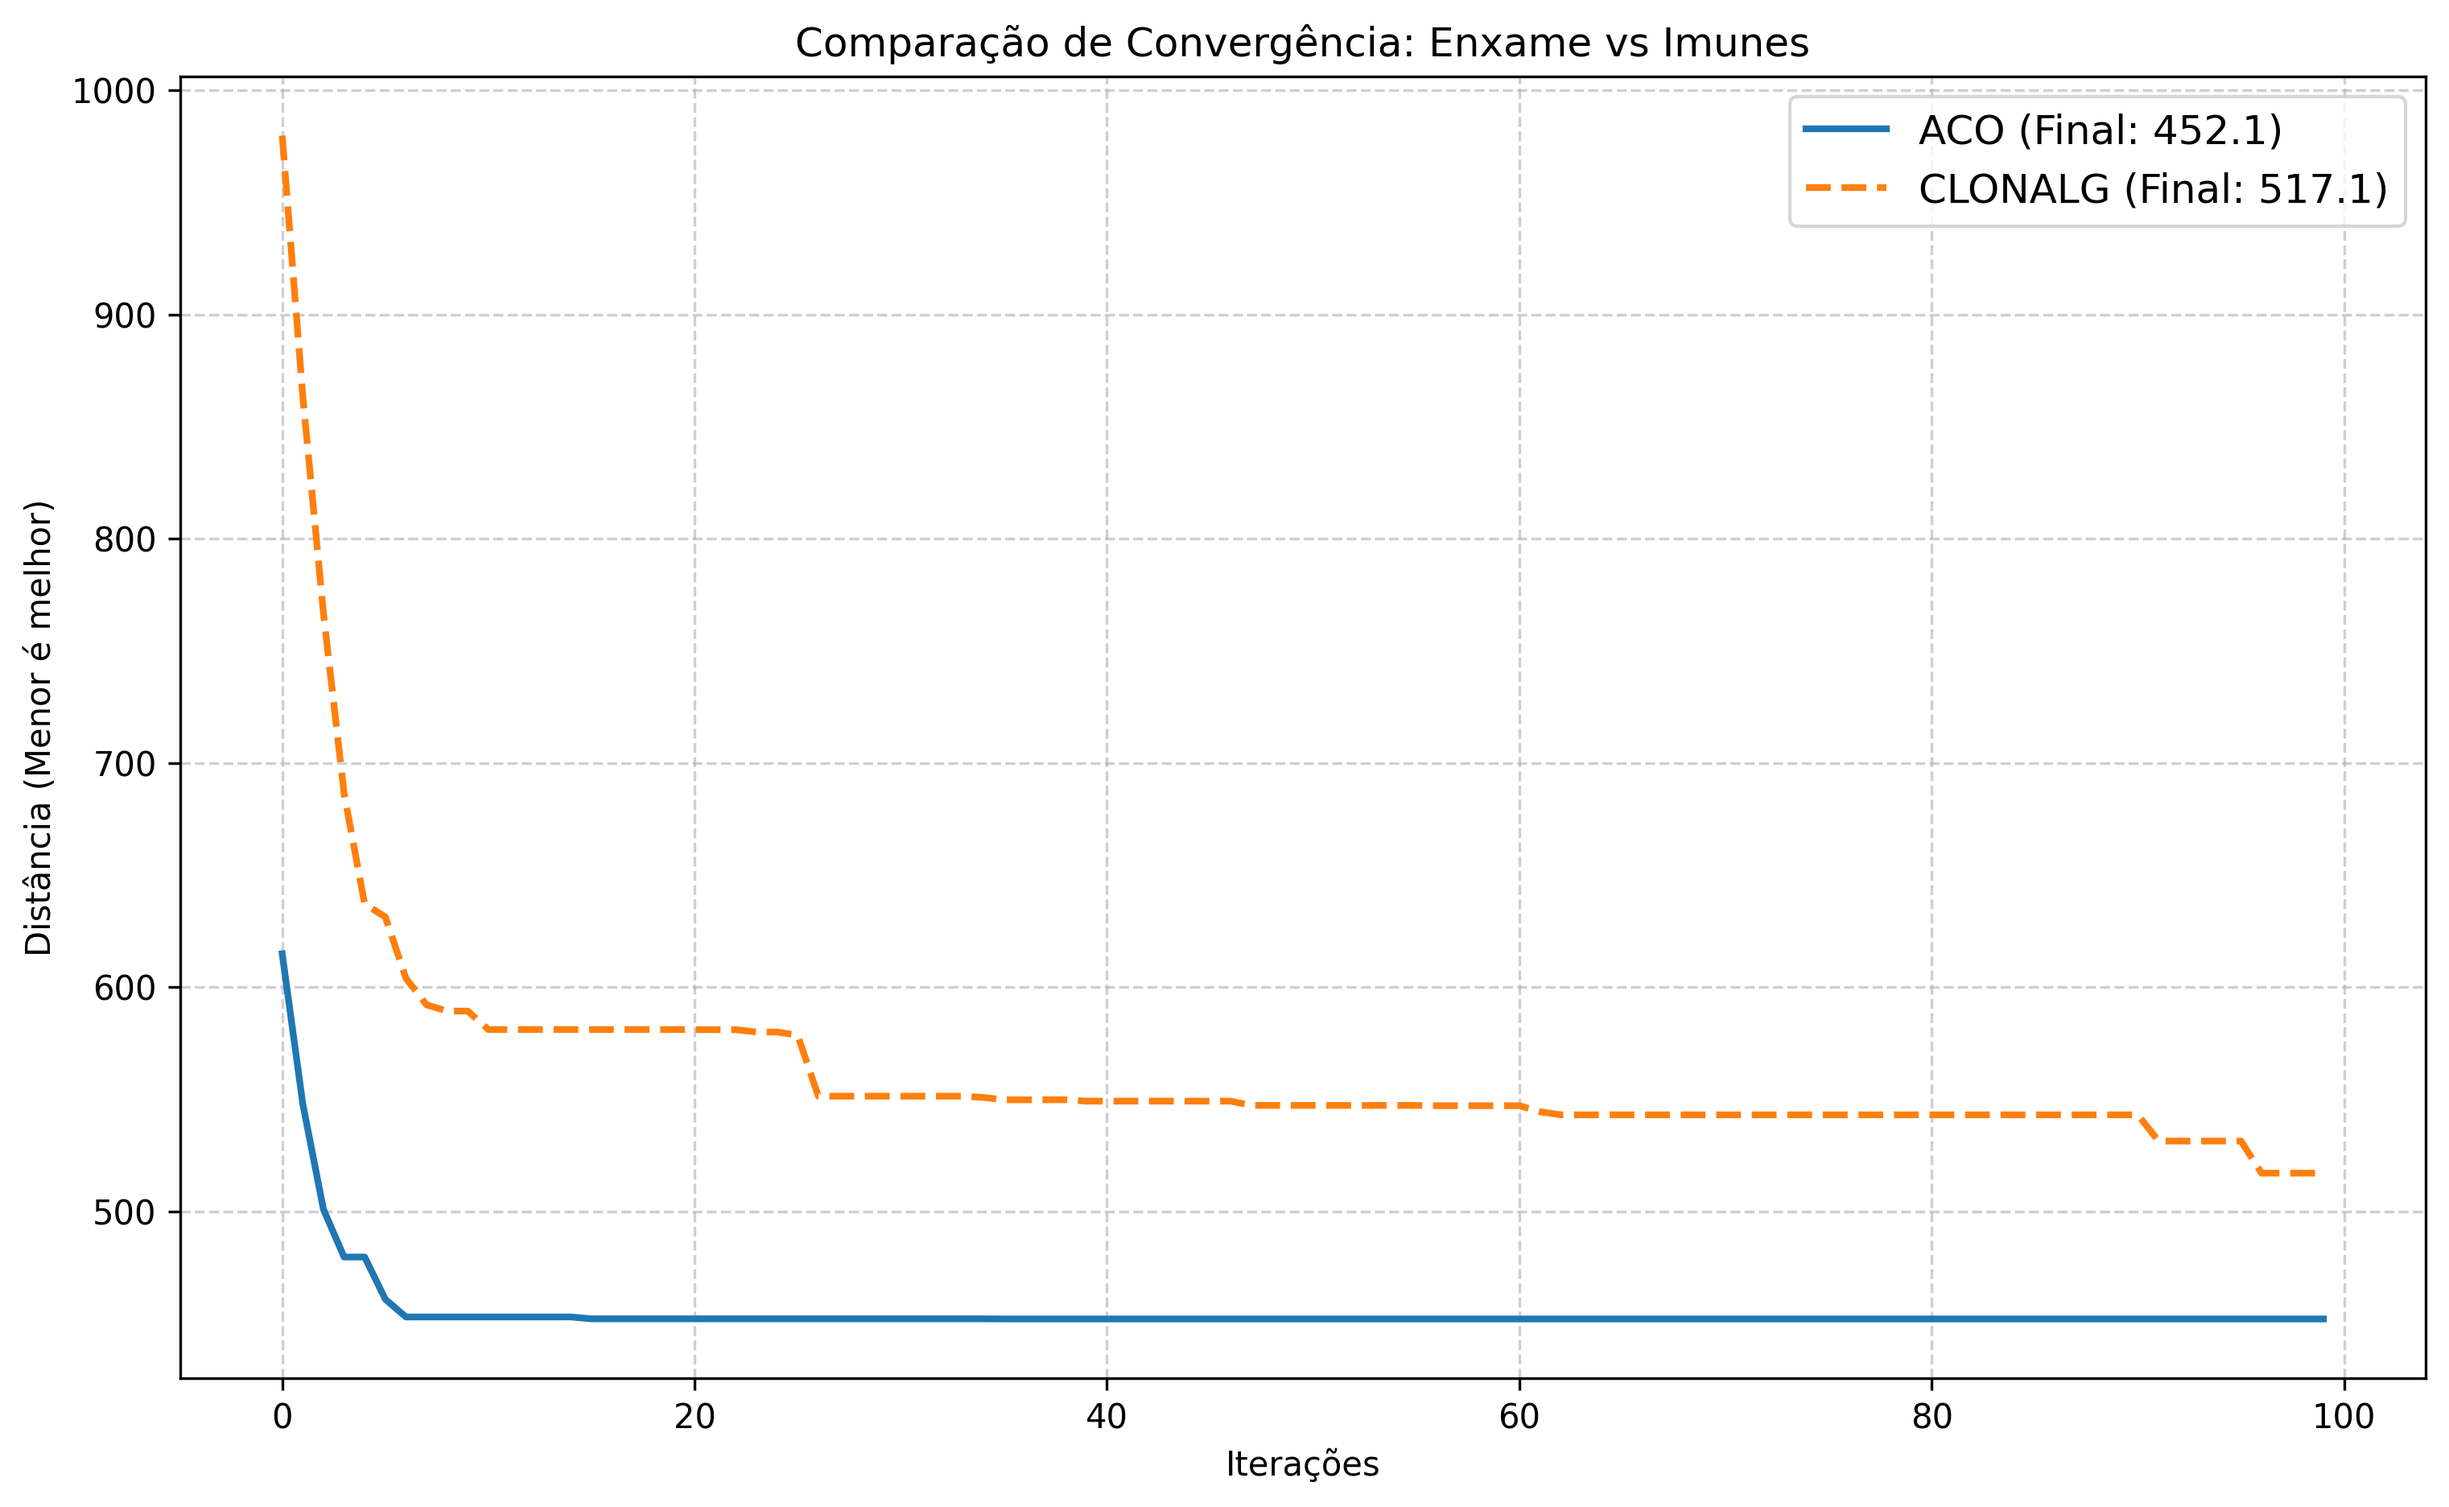
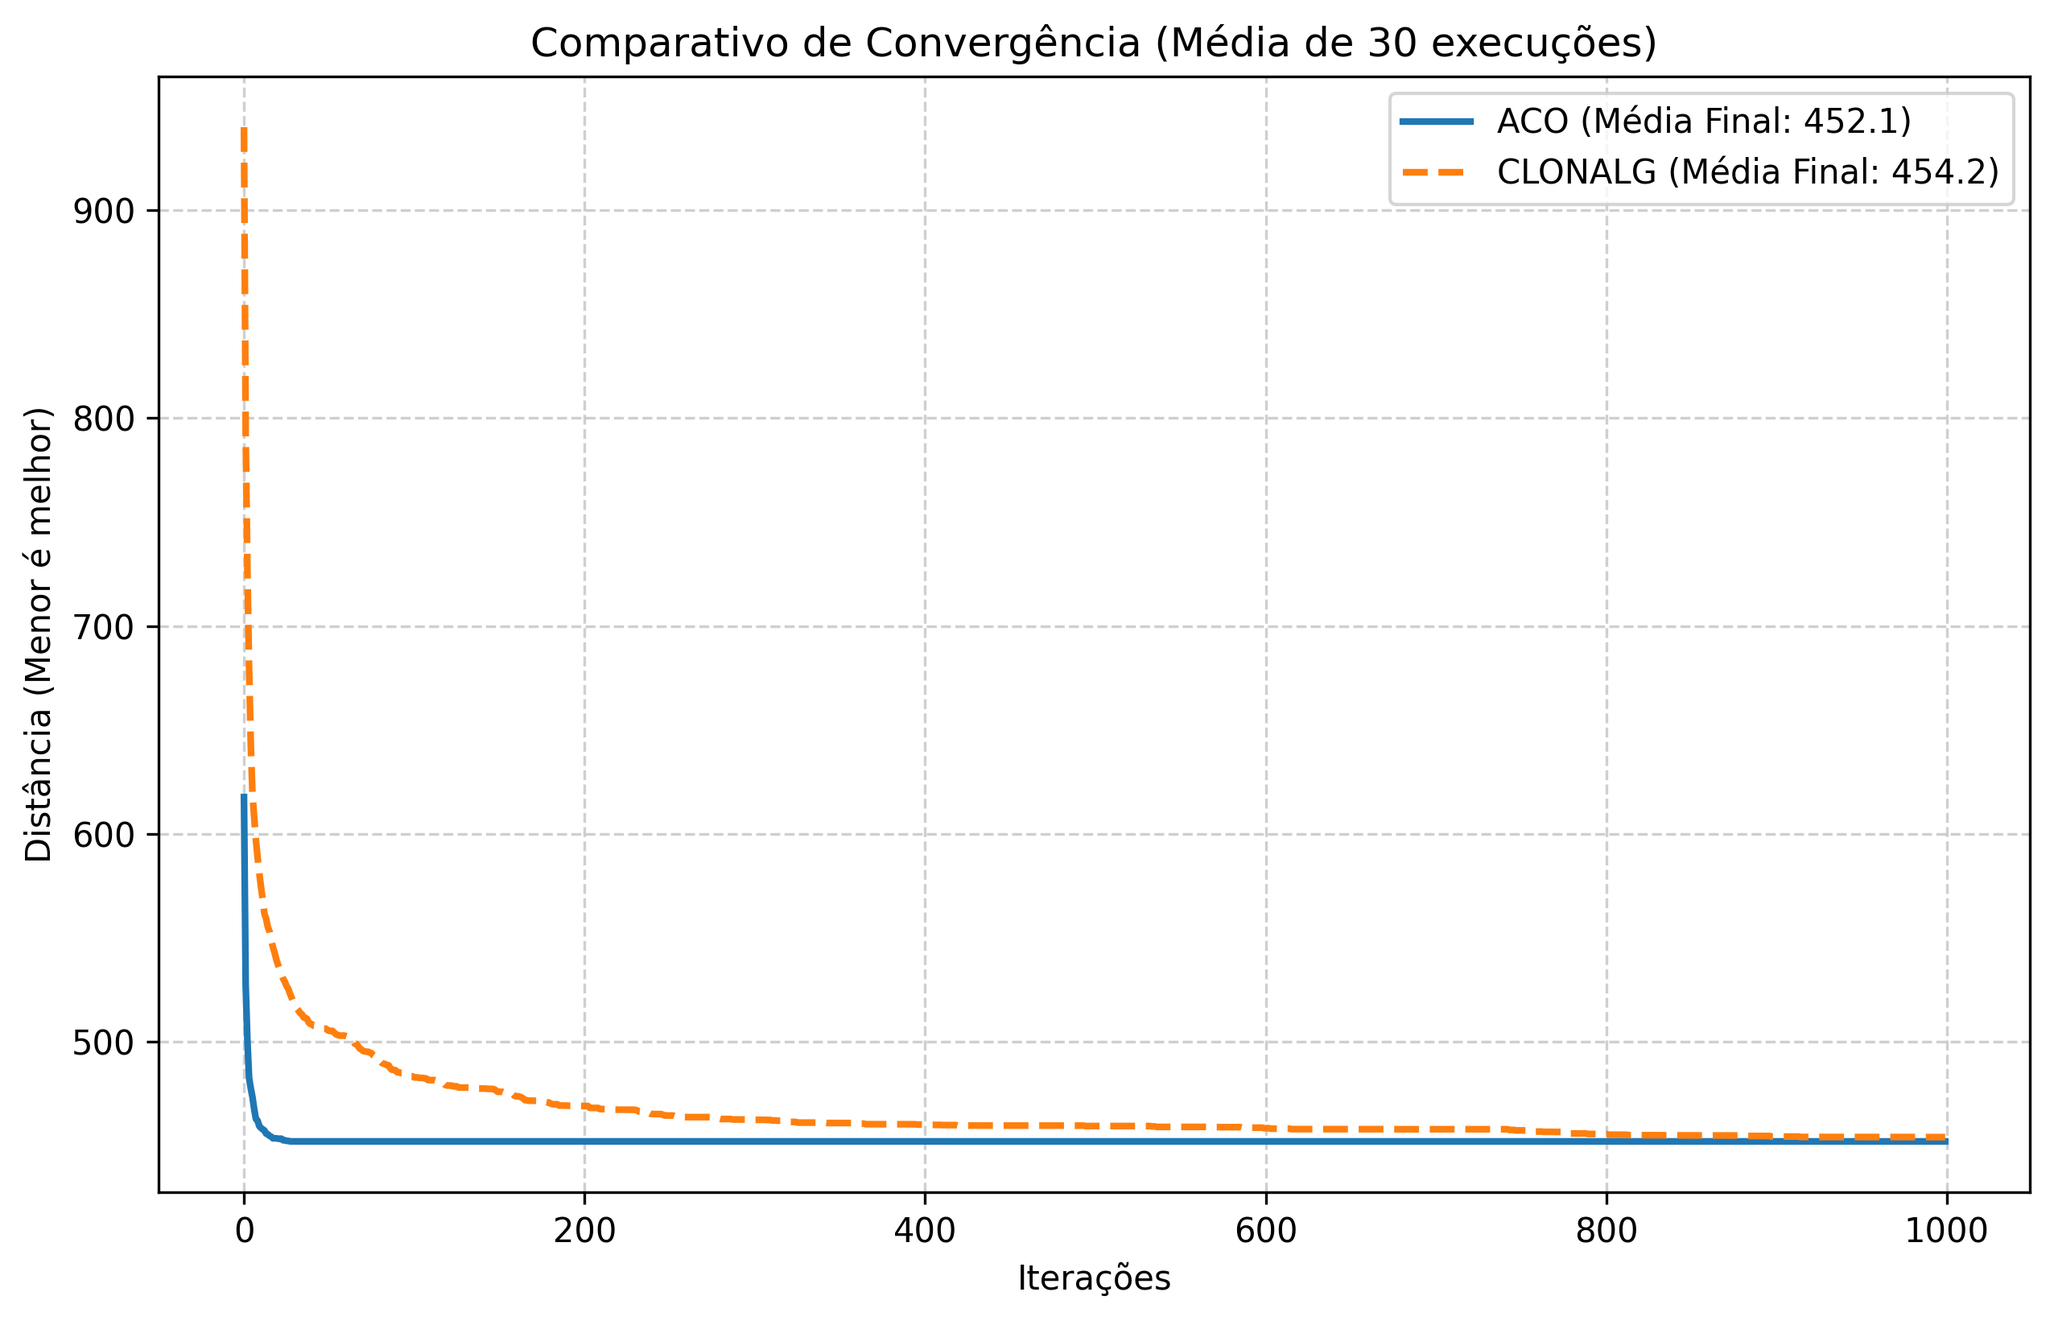
part4

diff --git a/src/part4_swarm_immune/run_meta.py b/src/part4_swarm_immune/run_meta.py
@@ -1,54 +1,108 @@
 from aco import ACO
 from clonalg import CLONALG
 import matplotlib.pyplot as plt
-import os
-import argparse
 import numpy as np
+import time
+import os
+import random
+import argparse
+
+# Configurações do Experimento
+N_RUNS = 30           # Rigor estatístico
+ITERS = 1000          # Iterações por rodada
+
+def run_experiment(algo_class, name, n_runs, iters):
+    print(f">> Iniciando {n_runs} execuções de {name}...")
+    
+    results_cost = []
+    results_time = []
+    all_histories = []
+
+    for i in range(n_runs):
+        # Configurar seed para reprodutibilidade
+        current_seed = 42 + i
+        random.seed(current_seed)
+        np.random.seed(current_seed)
+        
+        start_time = time.time()
+        
+        # Instancia e roda o algoritmo
+        model = algo_class(n_iters=iters)
+        best_sol, best_cost, history = model.run()
+        
+        end_time = time.time()
+        
+        results_cost.append(best_cost)
+        results_time.append(end_time - start_time)
+        all_histories.append(history)
+        
+        # Feedback visual simples
+        if (i+1) % 5 == 0:
+            print(f"   [{name}] Execução {i+1}/{n_runs} concluída.")
+
+    # Estatísticas
+    stats = {
+        "best": np.min(results_cost),
+        "worst": np.max(results_cost),
+        "mean": np.mean(results_cost),
+        "std": np.std(results_cost),
+        "time_mean": np.mean(results_time)
+    }
+    
+    # Média do histórico para o gráfico
+    # Garante que todos tenham o mesmo tamanho
+    min_len = min(len(h) for h in all_histories)
+    histories_trimmed = [h[:min_len] for h in all_histories]
+    mean_history = np.mean(histories_trimmed, axis=0)
+    
+    return stats, mean_history
 
 def main():
     parser = argparse.ArgumentParser()
-    # Default aumentado para garantir convergência em problemas maiores
-    parser.add_argument('--iters', type=int, default=300) 
+    parser.add_argument('--iters', type=int, default=ITERS)
+    parser.add_argument('--seed', type=int, default=42) # Apenas para compatibilidade, seeds variam no loop
     args = parser.parse_args()
 
-    # Rodar ACO
-    print(f">> Executando ACO ({args.iters} iterações)...")
-    aco = ACO(n_iters=args.iters)
-    best_aco, cost_aco, hist_aco = aco.run()
-    print(f"Melhor ACO: {cost_aco:.2f}")
-
-    # Rodar CLONALG
-    print(f">> Executando CLONALG ({args.iters} iterações)...")
-    clo = CLONALG(n_iters=args.iters)
-    best_clo, cost_clo, hist_clo = clo.run()
-    print(f"Melhor CLONALG: {cost_clo:.2f}")
-
-    # --- PLOTAGEM MELHORADA ---
-    plt.figure(figsize=(12, 7))
+    # 1. Rodar ACO
+    stats_aco, hist_aco = run_experiment(ACO, "ACO", N_RUNS, args.iters)
     
-    # Plotar ACO
-    plt.plot(hist_aco, label=f"ACO (Final: {cost_aco:.1f})", linewidth=2)
+    # 2. Rodar CLONALG
+    stats_clo, hist_clo = run_experiment(CLONALG, "CLONALG", N_RUNS, args.iters)
+
+    # 3. Imprimir Tabela para o Relatório
+    print("\n" + "="*60)
+    print("=== TABELA COMPARATIVA (Copiar para o LaTeX) ===")
+    print(f"{'Métrica':<20} | {'ACO':<15} | {'CLONALG':<15}")
+    print("-" * 60)
+    print(f"{'Melhor Solução':<20} | {stats_aco['best']:<15.2f} | {stats_clo['best']:<15.2f}")
+    print(f"{'Pior Solução':<20} | {stats_aco['worst']:<15.2f} | {stats_clo['worst']:<15.2f}")
+    print(f"{'Média':<20} | {stats_aco['mean']:<15.2f} | {stats_clo['mean']:<15.2f}")
+    print(f"{'Desvio Padrão':<20} | {stats_aco['std']:<15.2f} | {stats_clo['std']:<15.2f}")
+    print(f"{'Tempo Médio (s)':<20} | {stats_aco['time_mean']:<15.4f} | {stats_clo['time_mean']:<15.4f}")
+    print("="*60 + "\n")
+
+    # 4. Plotar Gráfico Comparativo
+    plt.figure(figsize=(10, 6))
     
-    # Plotar CLONALG
-    plt.plot(hist_clo, label=f"CLONALG (Final: {cost_clo:.1f})", linewidth=2, linestyle='--')
+    plt.plot(hist_aco, label=f"ACO (Média Final: {stats_aco['mean']:.1f})", linewidth=2)
+    plt.plot(hist_clo, label=f"CLONALG (Média Final: {stats_clo['mean']:.1f})", linewidth=2, linestyle='--')
 
     plt.xlabel("Iterações")
     plt.ylabel("Distância (Menor é melhor)")
-    plt.title("Comparação de Convergência: Enxame vs Imunes")
-    plt.legend(fontsize=12)
-    plt.grid(True, which='both', linestyle='--', alpha=0.6)
-
-    # Ajuste fino: Se a diferença inicial for gigantesca, usamos escala logarítmica
-    #plt.yscale('log') # Descomente se os valores iniciais forem muito altos
+    plt.title(f"Comparativo de Convergência (Média de {N_RUNS} execuções)")
+    plt.legend()
+    plt.grid(True, linestyle='--', alpha=0.6)
+    
+    plt.xlim(0, 200)
 
     # Salvar
-    save_dir = "../../reports/figs"
-    os.makedirs(save_dir, exist_ok=True)
-    save_path = os.path.join(save_dir, "comparison_part4.png")
+    pasta = "../../reports/figs"
+    os.makedirs(pasta, exist_ok=True)
+    caminho = os.path.join(pasta, "comparison_part4.png")
     
-    plt.savefig(save_path, dpi=300, bbox_inches="tight")
-    print(f"Gráfico salvo em {save_path}")
-    plt.show()
+    plt.savefig(caminho, dpi=300, bbox_inches="tight")
+    print(f">> Gráfico salvo em: {caminho}")
+    # plt.show()
 
 if __name__ == "__main__":
     main()
